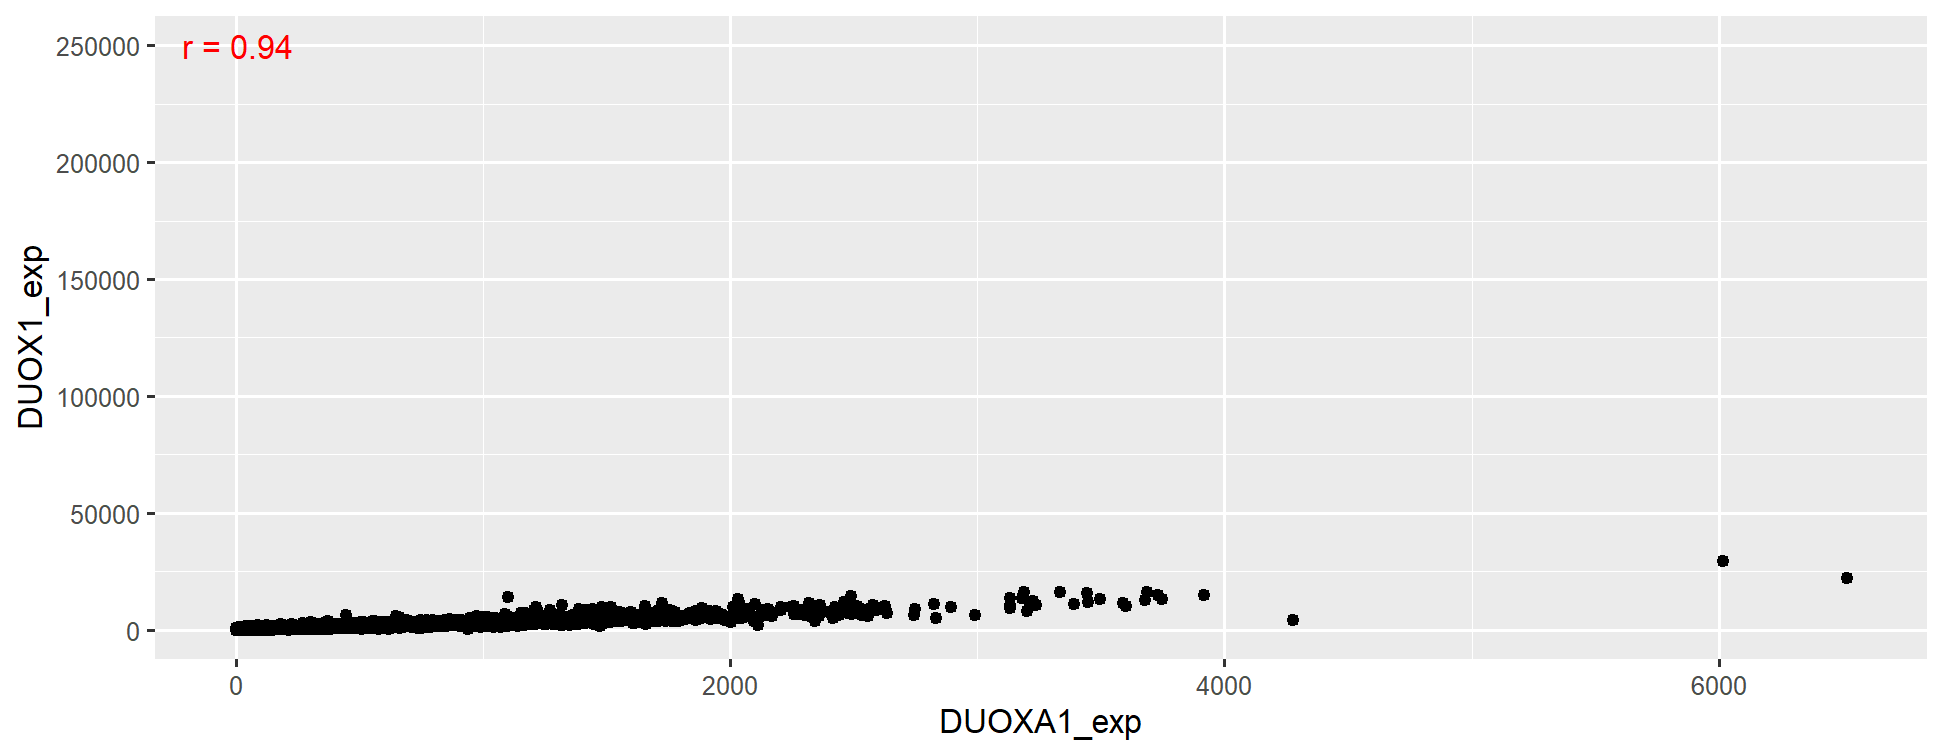
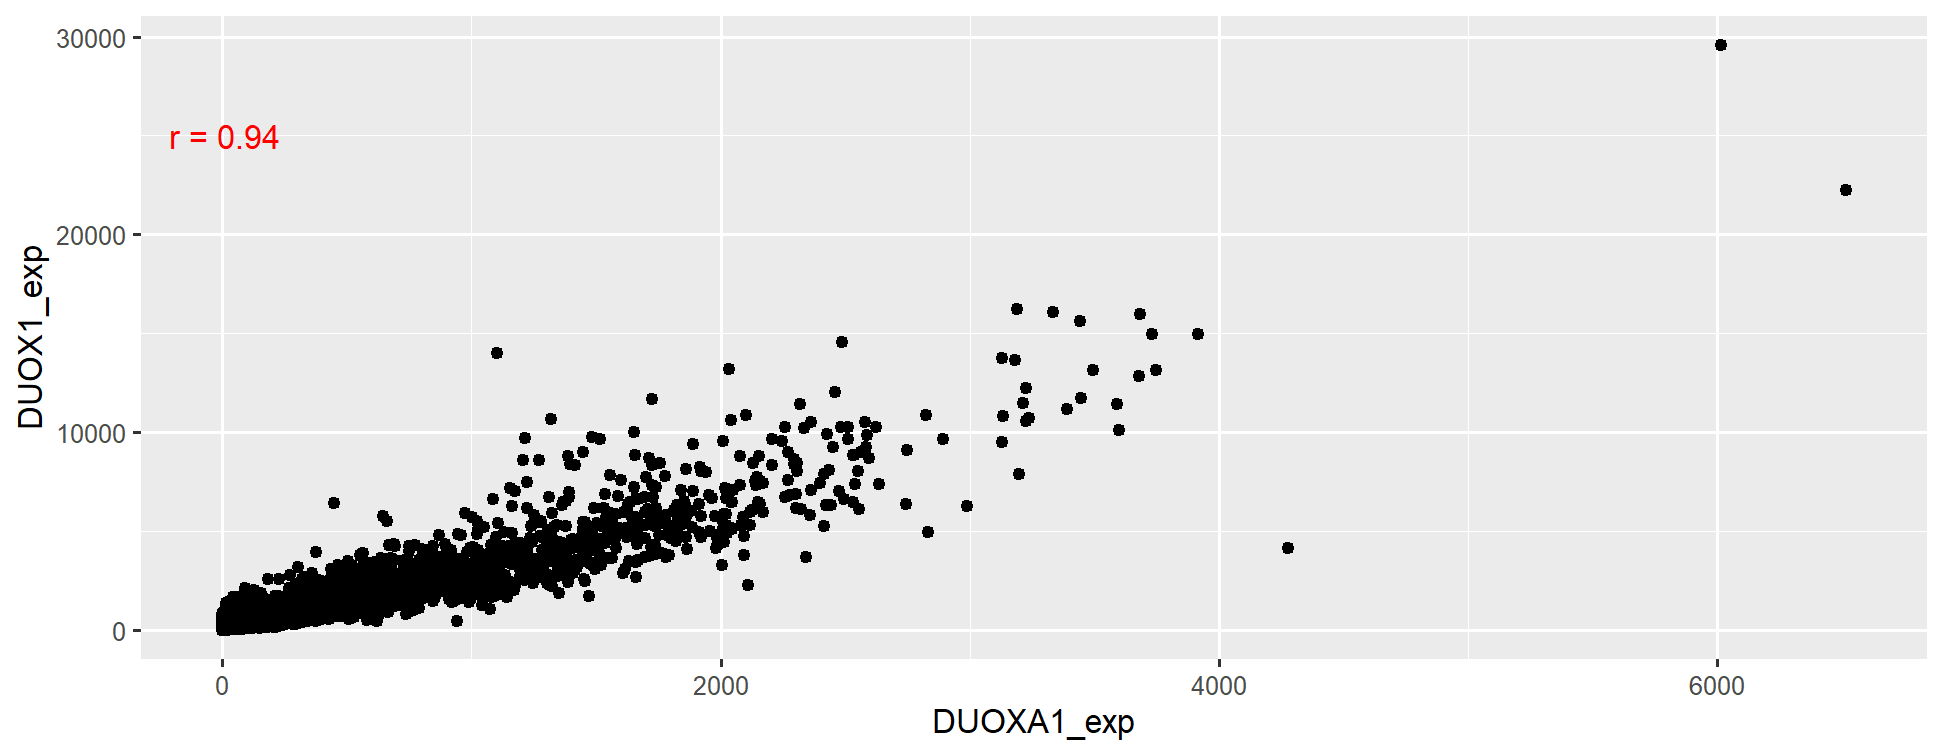
changed title slide

diff --git a/slides/05_slides-stats.html b/slides/05_slides-stats.html
@@ -1,10 +1,10 @@
 <!DOCTYPE html>
 <html lang="" xml:lang="">
   <head>
-    <title>LeaRning about Statistics -YEAH!!!</title>
+    <title>Lea.orange[R]ning about Statistics -YEAH!!!</title>
     <meta charset="utf-8" />
     <meta name="author" content="Zachary Thompson" />
-    <meta name="date" content="2021-02-16" />
+    <meta name="date" content="2021-02-17" />
     <script src="libs/header-attrs/header-attrs.js"></script>
     <link href="libs/tile-view/tile-view.css" rel="stylesheet" />
     <script src="libs/tile-view/tile-view.js"></script>
@@ -41,9 +41,9 @@ class: left bottom hide-count
 
 .talk-meta[
 .talk-title[
-# LeaRning about Statistics -YEAH!!!
+# Lea.orange[R]ning about Statistics -YEAH!!!
 
-Heck YA! 
+STATISTICAL TESTS! 
 ]
 
 .talk-author[
@@ -52,7 +52,7 @@ Zachary Thompson&lt;br&gt;
 ]
 
 .talk-date.moffitt-gray[
-February 16, 2021
+February 17, 2021
 ]
 ]
 
@@ -286,7 +286,7 @@ A correlation coefficient is a numerical measure of some type of correlation, me
 
 Several types of correlation coefficient exist, each with their own definition and own range of usability and characteristics. They all assume values in the range from −1 to +1, where ±1 indicates the strongest possible agreement and 0 no disagreement.
 
-The .bg-orange.white[Pearson product-moment correlation coefficient], also known as r, R, or Pearson's r, is a measure of the strength and direction of the linear relationship between two variables that is defined as the covariance of the variables divided by the product of their standard deviations.  Pearson's r is the best-known and most commonly used type of correlation coefficient.  
+The .bg-orange.white[Pearson product-moment correlation coefficient], also known as r or Pearson's r, is a measure of the strength and direction of the linear relationship between two variables that is defined as the covariance of the variables divided by the product of their standard deviations.  Pearson's r is the best-known and most commonly used type of correlation coefficient.  
  
 
 ---
@@ -422,7 +422,7 @@ r5&lt;-Rclassdata %&gt;% correlation::cor_test("AAMP_exp",
 
 ```r
 ggplot(Rclassdata) + aes(DUOXA1_exp,  DUOX1_exp ) + geom_point() + 
-         annotate(geom="text", x=10, y=250000, label=paste("r = ",round(r1$r,2), sep=""),  color="red")
+         annotate(geom="text", x=10, y=25000, label=paste("r = ",round(r1$r,2), sep=""),  color="red")
 ```
 
 &lt;img src="05_slides-stats_files/figure-html/unnamed-chunk-11-1.png" width="100%" /&gt;
@@ -728,10 +728,10 @@ dplyr::starwars %&gt;% dplyr::slice_sample(n = 4)
 ## # A tibble: 4 x 14
 ##   name  height  mass hair_color skin_color eye_color birth_year sex  
 ##   &lt;chr&gt;  &lt;int&gt; &lt;dbl&gt; &lt;chr&gt;      &lt;chr&gt;      &lt;chr&gt;          &lt;dbl&gt; &lt;chr&gt;
-## 1 Jar ~    196    66 none       orange     orange            52 male 
-## 2 Ric ~    183    NA brown      fair       blue              NA &lt;NA&gt; 
-## 3 Eeth~    171    NA black      brown      brown             NA male 
-## 4 Yara~    264    NA none       white      yellow            NA male 
+## 1 Mace~    188    84 none       dark       brown             72 male 
+## 2 C-3PO    167    75 &lt;NA&gt;       gold       yellow           112 none 
+## 3 Nien~    160    68 none       grey       black             NA male 
+## 4 Watto    137    NA black      blue, grey yellow            NA male 
 ## # ... with 6 more variables: gender &lt;chr&gt;, homeworld &lt;chr&gt;,
 ## #   species &lt;chr&gt;, films &lt;list&gt;, vehicles &lt;list&gt;, starships &lt;list&gt;
 ```
@@ -930,8 +930,8 @@ DT::datatable(head(mtcars), fillContainer = FALSE, options = list(pageLength = 4
 ```
 
 ```{=html}
-&lt;div id="htmlwidget-e14690db4d99d885821f" style="width:100%;height:auto;" class="datatables html-widget"&gt;&lt;/div&gt;
-&lt;script type="application/json" data-for="htmlwidget-e14690db4d99d885821f"&gt;{"x":{"filter":"none","fillContainer":false,"data":[["Mazda RX4","Mazda RX4 Wag","Datsun 710","Hornet 4 Drive","Hornet Sportabout","Valiant"],[21,21,22.8,21.4,18.7,18.1],[6,6,4,6,8,6],[160,160,108,258,360,225],[110,110,93,110,175,105],[3.9,3.9,3.85,3.08,3.15,2.76],[2.62,2.875,2.32,3.215,3.44,3.46],[16.46,17.02,18.61,19.44,17.02,20.22],[0,0,1,1,0,1],[1,1,1,0,0,0],[4,4,4,3,3,3],[4,4,1,1,2,1]],"container":"&lt;table class=\"display\"&gt;\n  &lt;thead&gt;\n    &lt;tr&gt;\n      &lt;th&gt; &lt;\/th&gt;\n      &lt;th&gt;mpg&lt;\/th&gt;\n      &lt;th&gt;cyl&lt;\/th&gt;\n      &lt;th&gt;disp&lt;\/th&gt;\n      &lt;th&gt;hp&lt;\/th&gt;\n      &lt;th&gt;drat&lt;\/th&gt;\n      &lt;th&gt;wt&lt;\/th&gt;\n      &lt;th&gt;qsec&lt;\/th&gt;\n      &lt;th&gt;vs&lt;\/th&gt;\n      &lt;th&gt;am&lt;\/th&gt;\n      &lt;th&gt;gear&lt;\/th&gt;\n      &lt;th&gt;carb&lt;\/th&gt;\n    &lt;\/tr&gt;\n  &lt;\/thead&gt;\n&lt;\/table&gt;","options":{"pageLength":4,"columnDefs":[{"className":"dt-right","targets":[1,2,3,4,5,6,7,8,9,10,11]},{"orderable":false,"targets":0}],"order":[],"autoWidth":false,"orderClasses":false,"lengthMenu":[4,10,25,50,100]}},"evals":[],"jsHooks":[]}&lt;/script&gt;
+&lt;div id="htmlwidget-e0aed022aec40e0e0103" style="width:100%;height:auto;" class="datatables html-widget"&gt;&lt;/div&gt;
+&lt;script type="application/json" data-for="htmlwidget-e0aed022aec40e0e0103"&gt;{"x":{"filter":"none","fillContainer":false,"data":[["Mazda RX4","Mazda RX4 Wag","Datsun 710","Hornet 4 Drive","Hornet Sportabout","Valiant"],[21,21,22.8,21.4,18.7,18.1],[6,6,4,6,8,6],[160,160,108,258,360,225],[110,110,93,110,175,105],[3.9,3.9,3.85,3.08,3.15,2.76],[2.62,2.875,2.32,3.215,3.44,3.46],[16.46,17.02,18.61,19.44,17.02,20.22],[0,0,1,1,0,1],[1,1,1,0,0,0],[4,4,4,3,3,3],[4,4,1,1,2,1]],"container":"&lt;table class=\"display\"&gt;\n  &lt;thead&gt;\n    &lt;tr&gt;\n      &lt;th&gt; &lt;\/th&gt;\n      &lt;th&gt;mpg&lt;\/th&gt;\n      &lt;th&gt;cyl&lt;\/th&gt;\n      &lt;th&gt;disp&lt;\/th&gt;\n      &lt;th&gt;hp&lt;\/th&gt;\n      &lt;th&gt;drat&lt;\/th&gt;\n      &lt;th&gt;wt&lt;\/th&gt;\n      &lt;th&gt;qsec&lt;\/th&gt;\n      &lt;th&gt;vs&lt;\/th&gt;\n      &lt;th&gt;am&lt;\/th&gt;\n      &lt;th&gt;gear&lt;\/th&gt;\n      &lt;th&gt;carb&lt;\/th&gt;\n    &lt;\/tr&gt;\n  &lt;\/thead&gt;\n&lt;\/table&gt;","options":{"pageLength":4,"columnDefs":[{"className":"dt-right","targets":[1,2,3,4,5,6,7,8,9,10,11]},{"orderable":false,"targets":0}],"order":[],"autoWidth":false,"orderClasses":false,"lengthMenu":[4,10,25,50,100]}},"evals":[],"jsHooks":[]}&lt;/script&gt;
 ```
 
 
@@ -970,7 +970,7 @@ gt_table
   font-family: -apple-system, BlinkMacSystemFont, 'Segoe UI', Roboto, Oxygen, Ubuntu, Cantarell, 'Helvetica Neue', 'Fira Sans', 'Droid Sans', Arial, sans-serif;
 }
 
-#bgqnzyfcob .gt_table {
+#aoqcoeoobd .gt_table {
   display: table;
   border-collapse: collapse;
   margin-left: auto;
@@ -995,7 +995,7 @@ gt_table
   border-left-color: #D3D3D3;
 }
 
-#bgqnzyfcob .gt_heading {
+#aoqcoeoobd .gt_heading {
   background-color: #FFFFFF;
   text-align: center;
   border-bottom-color: #FFFFFF;
@@ -1007,7 +1007,7 @@ gt_table
   border-right-color: #D3D3D3;
 }
 
-#bgqnzyfcob .gt_title {
+#aoqcoeoobd .gt_title {
   color: #333333;
   font-size: 125%;
   font-weight: initial;
@@ -1017,7 +1017,7 @@ gt_table
   border-bottom-width: 0;
 }
 
-#bgqnzyfcob .gt_subtitle {
+#aoqcoeoobd .gt_subtitle {
   color: #333333;
   font-size: 85%;
   font-weight: initial;
@@ -1027,13 +1027,13 @@ gt_table
   border-top-width: 0;
 }
 
-#bgqnzyfcob .gt_bottom_border {
+#aoqcoeoobd .gt_bottom_border {
   border-bottom-style: solid;
   border-bottom-width: 2px;
   border-bottom-color: #D3D3D3;
 }
 
-#bgqnzyfcob .gt_col_headings {
+#aoqcoeoobd .gt_col_headings {
   border-top-style: solid;
   border-top-width: 2px;
   border-top-color: #D3D3D3;
@@ -1048,7 +1048,7 @@ gt_table
   border-right-color: #D3D3D3;
 }
 
-#bgqnzyfcob .gt_col_heading {
+#aoqcoeoobd .gt_col_heading {
   color: #333333;
   background-color: #FFFFFF;
   font-size: 100%;
@@ -1068,7 +1068,7 @@ gt_table
   overflow-x: hidden;
 }
 
-#bgqnzyfcob .gt_column_spanner_outer {
+#aoqcoeoobd .gt_column_spanner_outer {
   color: #333333;
   background-color: #FFFFFF;
   font-size: 100%;
@@ -1080,15 +1080,15 @@ gt_table
   padding-right: 4px;
 }
 
-#bgqnzyfcob .gt_column_spanner_outer:first-child {
+#aoqcoeoobd .gt_column_spanner_outer:first-child {
   padding-left: 0;
 }
 
-#bgqnzyfcob .gt_column_spanner_outer:last-child {
+#aoqcoeoobd .gt_column_spanner_outer:last-child {
   padding-right: 0;
 }
 
-#bgqnzyfcob .gt_column_spanner {
+#aoqcoeoobd .gt_column_spanner {
   border-bottom-style: solid;
   border-bottom-width: 2px;
   border-bottom-color: #D3D3D3;
@@ -1100,7 +1100,7 @@ gt_table
   width: 100%;
 }
 
-#bgqnzyfcob .gt_group_heading {
+#aoqcoeoobd .gt_group_heading {
   padding: 8px;
   color: #333333;
   background-color: #FFFFFF;
@@ -1122,7 +1122,7 @@ gt_table
   vertical-align: middle;
 }
 
-#bgqnzyfcob .gt_empty_group_heading {
+#aoqcoeoobd .gt_empty_group_heading {
   padding: 0.5px;
   color: #333333;
   background-color: #FFFFFF;
@@ -1137,15 +1137,15 @@ gt_table
   vertical-align: middle;
 }
 
-#bgqnzyfcob .gt_from_md &gt; :first-child {
+#aoqcoeoobd .gt_from_md &gt; :first-child {
   margin-top: 0;
 }
 
-#bgqnzyfcob .gt_from_md &gt; :last-child {
+#aoqcoeoobd .gt_from_md &gt; :last-child {
   margin-bottom: 0;
 }
 
-#bgqnzyfcob .gt_row {
+#aoqcoeoobd .gt_row {
   padding-top: 8px;
   padding-bottom: 8px;
   padding-left: 5px;
@@ -1164,7 +1164,7 @@ gt_table
   overflow-x: hidden;
 }
 
-#bgqnzyfcob .gt_stub {
+#aoqcoeoobd .gt_stub {
   color: #333333;
   background-color: #FFFFFF;
   font-size: 100%;
@@ -1176,7 +1176,7 @@ gt_table
   padding-left: 12px;
 }
 
-#bgqnzyfcob .gt_summary_row {
+#aoqcoeoobd .gt_summary_row {
   color: #333333;
   background-color: #FFFFFF;
   text-transform: inherit;
@@ -1186,7 +1186,7 @@ gt_table
   padding-right: 5px;
 }
 
-#bgqnzyfcob .gt_first_summary_row {
+#aoqcoeoobd .gt_first_summary_row {
   padding-top: 8px;
   padding-bottom: 8px;
   padding-left: 5px;
@@ -1196,7 +1196,7 @@ gt_table
   border-top-color: #D3D3D3;
 }
 
-#bgqnzyfcob .gt_grand_summary_row {
+#aoqcoeoobd .gt_grand_summary_row {
   color: #333333;
   background-color: #FFFFFF;
   text-transform: inherit;
@@ -1206,7 +1206,7 @@ gt_table
   padding-right: 5px;
 }
 
-#bgqnzyfcob .gt_first_grand_summary_row {
+#aoqcoeoobd .gt_first_grand_summary_row {
   padding-top: 8px;
   padding-bottom: 8px;
   padding-left: 5px;
@@ -1216,11 +1216,11 @@ gt_table
   border-top-color: #D3D3D3;
 }
 
-#bgqnzyfcob .gt_striped {
+#aoqcoeoobd .gt_striped {
   background-color: rgba(128, 128, 128, 0.05);
 }
 
-#bgqnzyfcob .gt_table_body {
+#aoqcoeoobd .gt_table_body {
   border-top-style: solid;
   border-top-width: 2px;
   border-top-color: #D3D3D3;
@@ -1229,7 +1229,7 @@ gt_table
   border-bottom-color: #D3D3D3;
 }
 
-#bgqnzyfcob .gt_footnotes {
+#aoqcoeoobd .gt_footnotes {
   color: #333333;
   background-color: #FFFFFF;
   border-bottom-style: none;
@@ -1243,13 +1243,13 @@ gt_table
   border-right-color: #D3D3D3;
 }
 
-#bgqnzyfcob .gt_footnote {
+#aoqcoeoobd .gt_footnote {
   margin: 0px;
   font-size: 90%;
   padding: 4px;
 }
 
-#bgqnzyfcob .gt_sourcenotes {
+#aoqcoeoobd .gt_sourcenotes {
   color: #333333;
   background-color: #FFFFFF;
   border-bottom-style: none;
@@ -1263,46 +1263,46 @@ gt_table
   border-right-color: #D3D3D3;
 }
 
-#bgqnzyfcob .gt_sourcenote {
+#aoqcoeoobd .gt_sourcenote {
   font-size: 90%;
   padding: 4px;
 }
 
-#bgqnzyfcob .gt_left {
+#aoqcoeoobd .gt_left {
   text-align: left;
 }
 
-#bgqnzyfcob .gt_center {
+#aoqcoeoobd .gt_center {
   text-align: center;
 }
 
-#bgqnzyfcob .gt_right {
+#aoqcoeoobd .gt_right {
   text-align: right;
   font-variant-numeric: tabular-nums;
 }
 
-#bgqnzyfcob .gt_font_normal {
+#aoqcoeoobd .gt_font_normal {
   font-weight: normal;
 }
 
-#bgqnzyfcob .gt_font_bold {
+#aoqcoeoobd .gt_font_bold {
   font-weight: bold;
 }
 
-#bgqnzyfcob .gt_font_italic {
+#aoqcoeoobd .gt_font_italic {
   font-style: italic;
 }
 
-#bgqnzyfcob .gt_super {
+#aoqcoeoobd .gt_super {
   font-size: 65%;
 }
 
-#bgqnzyfcob .gt_footnote_marks {
+#aoqcoeoobd .gt_footnote_marks {
   font-style: italic;
   font-size: 65%;
 }
 &lt;/style&gt;
-&lt;div id="bgqnzyfcob" style="overflow-x:auto;overflow-y:auto;width:auto;height:auto;"&gt;&lt;table class="gt_table"&gt;
+&lt;div id="aoqcoeoobd" style="overflow-x:auto;overflow-y:auto;width:auto;height:auto;"&gt;&lt;table class="gt_table"&gt;
   &lt;thead class="gt_header"&gt;
     &lt;tr&gt;
       &lt;th colspan="12" class="gt_heading gt_title gt_font_normal" style&gt;Data About Cars&lt;/th&gt;
